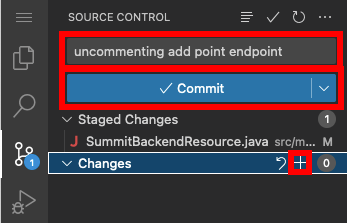
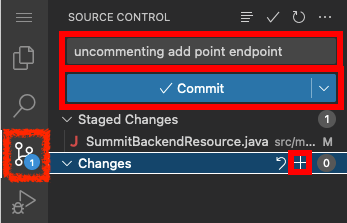
[CI] Publish Documentation for 6a18ab36dfd3e15caf52ced1daec22426c9f268b - 6a18ab36dfd3e15caf52ced1daec22426c9f268b 🚀

Changed region(s): [[0.0, 0.565, 0.1441, 0.8341]]

diff --git a/backstage-workshop/04-development.html b/backstage-workshop/04-development.html
@@ -259,7 +259,7 @@
 <div class="sect2">
 <h3 id="_commit_your_change_and_sync"><a class="anchor" href="#_commit_your_change_and_sync"></a>Commit your change and sync</h3>
 <div class="paragraph">
-<p>Click on the plus icon to add your changes to the changeset, then enter a commit message.  When you&#8217;re done, click on "Commit"</p>
+<p>Click on the Source Control tab in the side menu, then select the plus icon to add your change to the changeset. Enter your commit message in the top input box.  When you&#8217;re done, click "Commit"</p>
 </div>
 <div class="imageblock">
 <div class="content">
